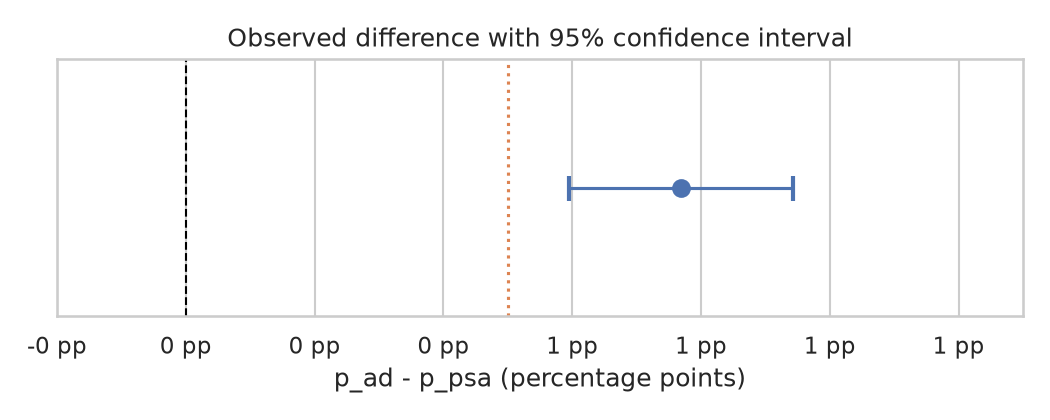
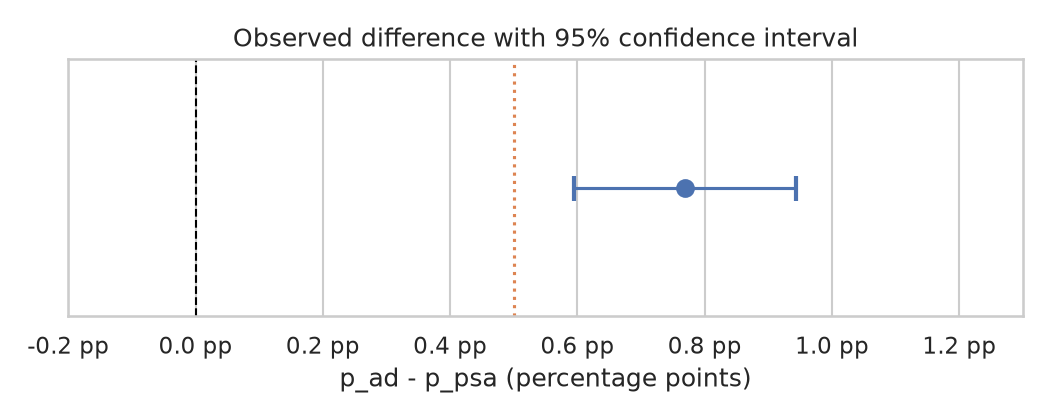
fix: show one decimal in x-tick labels of the CI chart (significance plot had colliding rounded ticks)

diff --git a/notebooks/build_03_hypothesis_test.py b/notebooks/build_03_hypothesis_test.py
@@ -84,7 +84,7 @@ CELLS: list[dict[str, str]] = [
             "ax.set_xlim(-0.002, 0.013)\n"
             "ax.set_title('Observed difference with 95% confidence interval')\n"
             "ax.tick_params(axis='x', labelbottom=True)\n"
-            "ax.xaxis.set_major_formatter(lambda x, _: f'{x*100:.0f} pp')"
+            "ax.xaxis.set_major_formatter(lambda x, _: f'{x*100:.1f} pp')"
         ),
     },
     {
